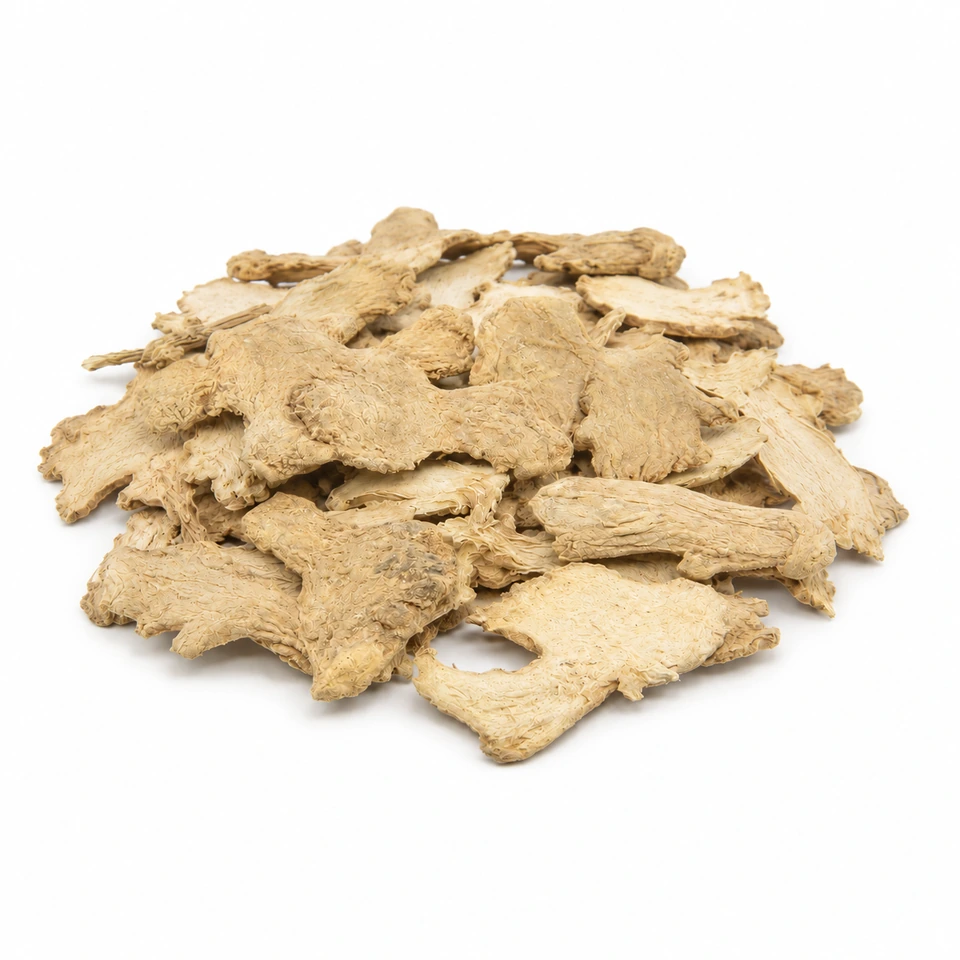
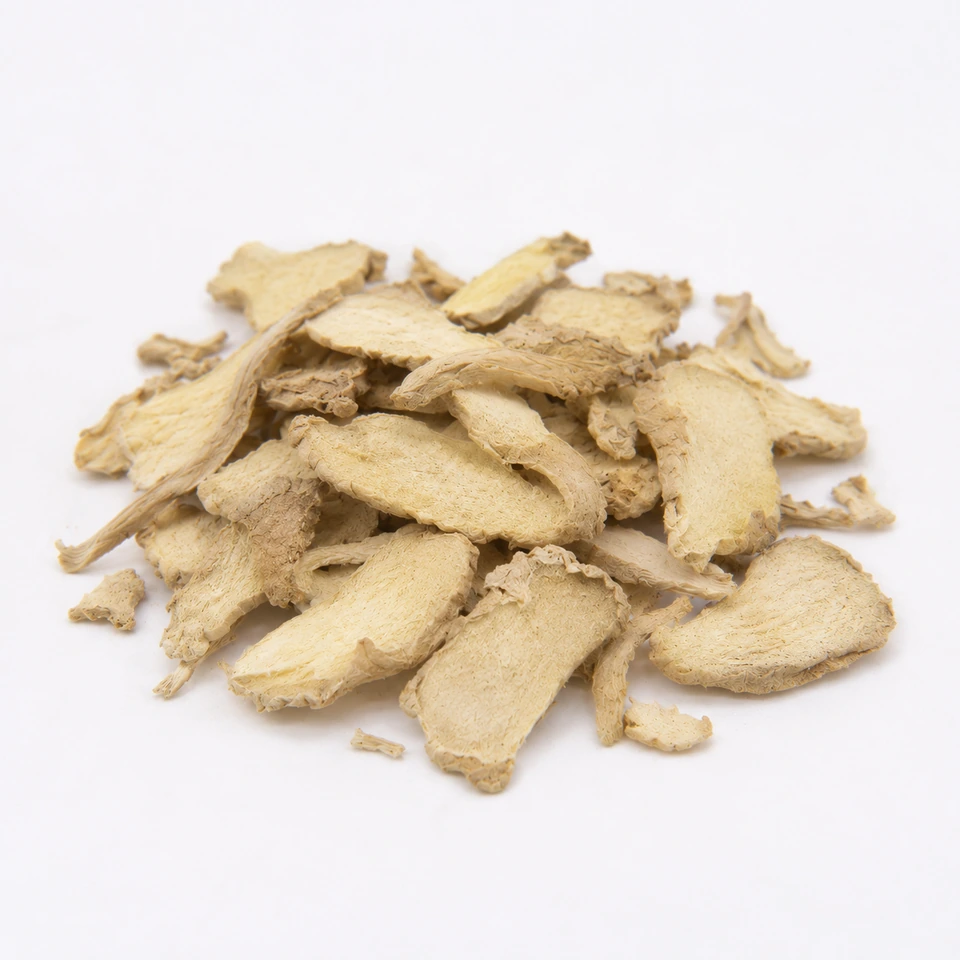
Apply natural imported ginger and roasted ginger product photos

diff --git a/app/ProductImage.js b/app/ProductImage.js
@@ -8,7 +8,7 @@ export default function ProductImage({ src, name, origin }) {
   const visible = Boolean(src) && !failed;
   const reference = src?.startsWith("/products-reference/");
   const localPhoto = reference || src?.startsWith("/products/");
-  const imageSrc = localPhoto ? `${src}${src.includes("?") ? "&" : "?"}photo=${src.split("?")[0] === "/products-reference/uniform-20261029/herb-001.webp" ? "gaja-20261117-v1" : src.split("?")[0] === "/products-reference/uniform-20261029/herb-003-v2.webp" ? "galgeun-20261117-v1" : src.split("?")[0] === "/products-reference/uniform-20261029/herb-004.webp" ? "galhwa-20261118-v1" : src.split("?")[0] === "/products-reference/uniform-20261029/herb-005.webp" ? "gamguk-20261118-v1" : src.split("?")[0] === "/products-reference/uniform-20261029/gamin-geomin.webp" ? "geomin-20261118-v1" : src.split("?")[0] === "/products-reference/uniform-20261029/herb-007.webp" ? "licorice-20261118-v1" : src.split("?")[0] === "/products-reference/uniform-20261029/gamcho-yangwai1-20261118.webp" ? "yangwai1-20261118-v3" : src.split("?")[0] === "/products-reference/uniform-20261029/gamcho-roasted-v2.webp" ? "roasted-20261118-v2" : src.split("?")[0].startsWith("/products-reference/uniform-20261029/gamcho-roasted-") ? "roasted-20261118-v2" : src.split("?")[0] === "/products-reference/uniform-20261029/herb-008.webp" ? "ganghwal-20261118-v1" : src.split("?")[0] === "/products-reference/uniform-20261029/herb-009-v2.webp" ? "jamganghwal-20261118-v3" : src.split("?")[0] === "/products-reference/uniform-20261029/herb-010.webp" ? "ganghwang-20261118-v2" : src.split("?")[0] === "/products-reference/uniform-20261029/herb-011.webp" ? "gaeja-20261118-v1" : src.split("?")[0] === "/products-reference/uniform-20261029/herb-012.webp" ? "ginger-20261118-v1" : "linen-20261116-v2"}` : src;
+  const imageSrc = localPhoto ? `${src}${src.includes("?") ? "&" : "?"}photo=${src.split("?")[0] === "/products-reference/uniform-20261029/herb-001.webp" ? "gaja-20261117-v1" : src.split("?")[0] === "/products-reference/uniform-20261029/herb-003-v2.webp" ? "galgeun-20261117-v1" : src.split("?")[0] === "/products-reference/uniform-20261029/herb-004.webp" ? "galhwa-20261118-v1" : src.split("?")[0] === "/products-reference/uniform-20261029/herb-005.webp" ? "gamguk-20261118-v1" : src.split("?")[0] === "/products-reference/uniform-20261029/gamin-geomin.webp" ? "geomin-20261118-v1" : src.split("?")[0] === "/products-reference/uniform-20261029/herb-007.webp" ? "licorice-20261118-v1" : src.split("?")[0] === "/products-reference/uniform-20261029/gamcho-yangwai1-20261118.webp" ? "yangwai1-20261118-v3" : src.split("?")[0] === "/products-reference/uniform-20261029/gamcho-roasted-v2.webp" ? "roasted-20261118-v2" : src.split("?")[0].startsWith("/products-reference/uniform-20261029/gamcho-roasted-") ? "roasted-20261118-v2" : src.split("?")[0] === "/products-reference/uniform-20261029/herb-008.webp" ? "ganghwal-20261118-v1" : src.split("?")[0] === "/products-reference/uniform-20261029/herb-009-v2.webp" ? "jamganghwal-20261118-v3" : src.split("?")[0] === "/products-reference/uniform-20261029/herb-010.webp" ? "ganghwang-20261118-v2" : src.split("?")[0] === "/products-reference/uniform-20261029/herb-011.webp" ? "gaeja-20261118-v1" : src.split("?")[0] === "/products-reference/uniform-20261029/herb-012.webp" ? "ginger-20261118-v2" : src.split("?")[0] === "/products-reference/uniform-20261029/herb-013-v2.webp" ? "ginger-roasted-20261118-v1" : "linen-20261116-v2"}` : src;
   const domesticGalgeun = /^갈근(?:\s*\((?:사각|강원문막)\))?$/.test(name || "")
     && /국내산|국산|한국|대한민국/.test(origin || "")
     && src?.split("?")[0] === "/products-reference/uniform-20261029/herb-003-v2.webp";
